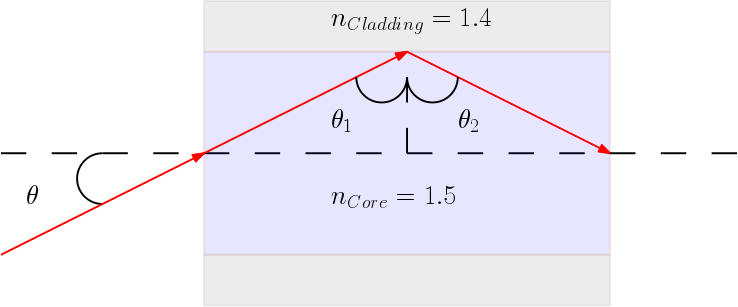
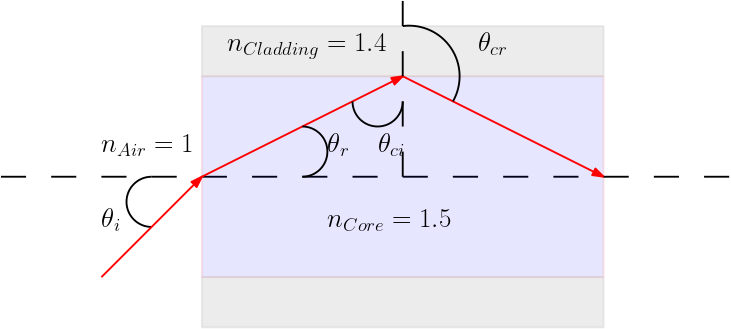
hw1ex2

diff --git a/hw01sol.tex b/hw01sol.tex
@@ -33,11 +33,14 @@ When we rewrite in terms of velocity and set equal we arrive at $\frac{c}{v_r}\s
 \end{equation}
 
 \textbf{Exercise 2. Total Internal Reflection}\\
-\textbf{Q\&A} Derive the critical angle $\theta_i$ (Equation \ref{eq:2a}) for which total internal reflection happens at the first interface (core-cladding). Hint: Both Fermat's principal and Snell's law are accepted for the derivation. What is the numerical aperture (Equation \ref{eq:2b}) of the fiber? Assuming a GRIN from 1.5 to 1.4 what is the trajectory (Qualitatively Sinusoidal) of the ray in case of total internal reflection ? \\
+
+\textbf{Q} Derive the critical angle for which total internal reflection happens at the first interface (core-cladding). Hint: Both Fermat's principal and Snell's law are accepted for the derivation. What is the numerical aperture of the fiber? Assuming a GRIN from 1.5 to 1.4 what is the trajectory of the ray in case of total internal reflection? \\
+
+\textbf{Q\&A} Derive the critical angle $\theta_i$ (Equation \ref{eq:e4}) for which total internal reflection happens at the first interface (core-cladding). Hint: Both Fermat's principal and Snell's law are accepted for the derivation. What is the numerical aperture (Equation \ref{eq:2b}) of the fiber? Assuming a GRIN from 1.5 to 1.4 what is the trajectory (Qualitatively Sinusoidal) of the ray in case of total internal reflection? \\
 
 \begin{figure}
 \centering\fbox{\includegraphics[height=2.0in]{figures/hw1/hw1_2.png}}
-\caption{Required $\theta$ in Equation \ref{eq:2a} for total internal reflection to occur}
+\caption{Maximum $\theta_i$ in Equation \ref{eq:e4} for total internal reflection to be maintained}
 \label{fig:2}
 \end{figure}
 
@@ -55,10 +58,10 @@ and employing alternate interior angles in Equation \ref{eq:e2}
 
 we can draw a relationship with the incident critical angle $\theta_{ci}$ and the refracted angle $\theta_{r}$.
 
-The refracted critical angle $\theta_{cr}$ results in a refracted ray that travels parallel to the materials interface. For a the generic problem with a interface between a material with index of refraction n and air with index of refraction 1, Snell's Law becomes, using radians, $n\sin(\theta_{ci}) = 1\sin(\pi/2)$ which simplifies to $n\sin(\theta_c) = 1$. This signifies that for total internal reflection to occur in the generic  $n\sin(\theta_c) > 1$. We can adapt the generic problems critical angle condition $n\sin(\theta_{ci}) = 1\sin(\pi/2)$ with the current problems given material index's resulting in  $1.5\sin(\theta_{ci}) = 1.4\sin(\theta_{cr} = \pi/2)$. Mapping from the generic problem we know that for total internal reflection to occur $1.5\sin(\theta_{ci}) > 1.4\sin(\theta_{cr} = \pi/2)$ which simplifies to Equation \ref{eq:e3} 
+The refracted critical angle $\theta_{cr}$ results in a refracted ray that travels parallel to the materials interface. For a the generic problem with a interface between a material with index of refraction n and air with index of refraction 1, Snell's Law becomes, using radians, $n\sin(\theta_{ci}) = 1\sin(\pi/2)$ which simplifies to $n\sin(\theta_c) = 1$. This signifies that for total internal reflection to occur in the generic  $n\sin(\theta_c) > 1$. We can adapt the generic problems critical angle condition $n\sin(\theta_{ci}) = 1\sin(\pi/2)$ with the current problems given material index's resulting in  $1.5\sin(\theta_{ci}) = 1.4\sin(\theta_{cr} = \pi/2)$. Mapping from the generic problem we know that for total internal reflection to occur $1.5\sin(\theta_{ci}) > 1.4\sin(\theta_{cr} = \pi/2)$ which \textbf{becomes} an equality at the minimum required angle for total internal refraction to occur as seen in Equation \ref{eq:e3}. 
 
 \begin{equation}\label{eq:e3}
-\sin\theta_{ci} > \frac{1.4}{1.5}
+\sin\theta_{ci} = \frac{1.4}{1.5}
 \end{equation}
 
 %Invoking our \textbf{Big Fat Assumption} and utilizing trigonometry's similar angles, utilizing radians, we know that $\pi/2 = \theta  + \theta_1$. Understanding that $\theta$ will be a positive angle off of our normal axis, we know that for total internal reflection to occur $\pi/2 - \theta > \arcsin(\frac{1.4}{1.5})$. We can solve for $\theta$ by multiplying by $-1$, showing us that for total internal reflection to occur 
@@ -67,19 +70,21 @@ The refracted critical angle $\theta_{cr}$ results in a refracted ray that trave
 %\theta < \pi/2 - \arcsin(\frac{1.4}{1.5})
 %\end{equation}
 
-When we combine Equations \ref{eq:e1}, \ref{eq:e2}, and \ref{eq:e3} we see that 
+When we combine Equations \ref{eq:e1}, \ref{eq:e2}, and \ref{eq:e3} we arrive at Equation \ref{eq:e4} which is the maximum allowed incident angle for total internal refraction to occur at the core cladding interface.
 
-\begin{equation}\label{eq:e3}
-\theta_{i} = \frac{1.4}{1.5}
+\begin{equation}\label{eq:e4}
+\theta_i = \arcsin(1.5\sin(\frac{\pi}{2} - \arcsin(\frac{1.4}{1.5}))) = 0.568676 \text{ rad} = 32.582735^{\circ}
 \end{equation}
 
-The numerical aperture is the incident angle of acceptance of the fiber, generally stated as $(\text{NA}) \equiv \sin(\theta_0) \leq \sqrt{n_1^2 - n_2^2}$, or referencing figure \ref{fig:2} and explicitly stated for our problem as $(\text{NA}) \equiv \sin(\theta) \leq \sqrt{1.5^2 - 1.4^2}$, resulting in 
+The Numerical Aperture (NA) is the Sine of the incident angle of acceptance of the fiber with the requirement that TIR (Total Internal Refraction) is happening in the waveguide expressed in Equation \ref{eq:e5}. 
 
-\begin{equation}\label{eq:2b}
-(\text{NA}) \leq 0.5385
+\begin{equation}\label{eq:e5}
+\text{NA} = \sin(0.568676) = 0.538517
 \end{equation}
 
-For a Fiber with a GRIN (Gradient Index) between $n_{max} = 1.5$ and $n_{min} = 1.4$, if the condition $n_{max}\sin(\theta_0)$ is respected, light in a uniform medium propagates in a straight line where as light in a gradient fiber propagates along a \textbf{sinusoidal} path.\\
+The NA can also be generally stated as $(\text{NA}) \equiv \sin(\theta_0) \leq \sqrt{n_1^2 - n_2^2}$, or referencing figure \ref{fig:2} and explicitly stated for our problem as $(\text{NA}) \equiv \sin(\theta) \leq \sqrt{1.5^2 - 1.4^2} = 0.538516 $. 
+
+For a Fiber with a GRIN (Gradient Index) between $n_{max} = 1.5$ and $n_{min} = 1.4$, if the condition $n_{max}\sin(\theta_0)$ is respected, light in a uniform medium propagates in a straight line where as light in a gradient fiber propagates along a \textbf{sinusoidal continuous} path in two dimensions and a \textbf{helical continuous} trajectory in three dimensions.\\
 
 \textbf{Exercise 3. Ellipsoidal refractor}\\
 \textbf{Q\&A} What is the dimension of the axes of an ellipsoidal refractor $(n=1.5)$ which focuses a plane wave ($\lambda_1 = \SI{1.55e-6}{\meter}$) impinging on axis (rays parallel to the major axis) in its focal point $f =  \SI{2.5e-2}{\meter}$? Would the same refractor perfectly focus at wavelength $\lambda_2 = \SI{0.5e-6}{\meter}$ considering that the refractive $n$ index varies to $1.6$? If yes why? If no, which would be the dimension of the ellipse that focuses it? Would the the ellipsoidal refractor be affected by any kind of aberration? Motivate your answer. Graduate Students: Additional point if you can use any ray tracing software for demonstrating the functioning of the refractor.\\

diff --git a/preamble.tex b/preamble.tex
@@ -9,8 +9,11 @@
 \fancyfoot[r]{\thepage}
 \fancyfoot[l]{\sectionmark}
 
-\usepackage{array}
+%hw1
+\usepackage{gensymb}
+%hw2
 
+\usepackage{array}
 \usepackage{tikz}
 \usetikzlibrary{arrows, automata}
 \usetikzlibrary{positioning}

diff --git a/main.tex b/main.tex
@@ -3,6 +3,7 @@
 \usepackage{subfiles}
 \usepackage{color,soul}
 \usepackage{siunitx}
+\usepackage{gensymb}
 
 \title{Fundamentals of Optics\\
 \large ECE 6045}
